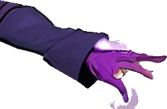
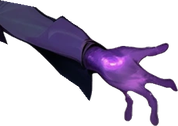
Combat body v3: young face matching the cards, flat boots instead of heeled ones, cleaner hands; re-split parts and anchors
Claude-Session: https://claude.ai/code/session_01XrBwXBqX3owjaJbW5W7iUD

diff --git a/MagicSwordsman/tools/split_body.py b/MagicSwordsman/tools/split_body.py
@@ -1,6 +1,6 @@
 """Splits the full-body Ensifer art into animation parts with Godot pivots.
 Input: the background-removed full-body PNG of the game-style Ensifer (side-on, facing right; 776x1216 — source:
-AI Horde side-view i2 (img2img of the previous body, head turned toward the enemy), see docs/card-art-credits.md). Output: MagicSwordsman/images/character/parts/*.png
+AI Horde side-view i2 of round 2 (2026-10-10: young face matching the cards, flat boots; img2img of the previous body), see docs/card-art-credits.md). Output: MagicSwordsman/images/character/parts/*.png
 and parts.json (pivot + offset per part, in output pixels). The base 'body' has the moving parts inpainted out so no
 hole shows when an arm or coat flap swings. The painted magic swirls of the source are removed (the rig draws its
 own palm circles). Usage: python3 tools/split_body.py body_cut.png
@@ -15,7 +15,7 @@ S=800/1216  # output scale (parts are 800 px tall; the scene shows them at 0.5)
 PARTS={  # name: (polygon in source px, pivot = joint the part rotates around)
  'head':([(268,22),(432,22),(432,118),(402,172),(372,192),(330,198),(296,150),(268,100)],(352,192)),
  'upper_r':([(398,212),(452,212),(502,326),(532,418),(502,462),(458,420),(418,322),(398,268)],(428,240)),
- 'fore_r':([(468,398),(560,416),(642,436),(732,466),(732,562),(640,562),(588,522),(518,482),(468,460)],(494,430)),
+ 'fore_r':([(468,398),(560,416),(642,436),(745,462),(748,605),(640,600),(588,530),(518,482),(468,460)],(494,430)),
  'upper_l':([(204,214),(262,228),(252,330),(202,440),(150,482),(118,450),(168,330)],(230,250)),
  'fore_l':([(108,430),(192,452),(170,562),(122,642),(104,702),(14,702),(6,612),(58,520)],(154,462)),
  'coat_l':([(130,600),(238,520),(290,700),(262,900),(180,940),(128,800)],(248,540)),
@@ -23,7 +23,7 @@ PARTS={  # name: (polygon in source px, pivot = joint the part rotates around)
 }
 ARMS=('upper_l','fore_l','upper_r','fore_r')
 DISCARD=()
-HANDS=[(4,596,134,712),(586,436,734,566)]  # glowing hands: keep their magenta glow
+HANDS=[(4,548,138,712),(584,448,748,604)]  # glowing hands: keep their magenta glow
 im=Image.open(SRC).convert('RGBA'); W,H=im.size
 a=np.array(im); yy,xx=np.mgrid[0:H,0:W]
 # painted magic swirls / wisps: magenta strokes outside the hands, and faint semi-transparent smoke
@@ -36,13 +36,14 @@ a[mag&~keep,3]=0
 a[a[...,3]<90,3]=0
 # the painted grey smoke around the hands and coat hem: light, unsaturated pixels (the figure itself is dark)
 rgb=a[...,:3].astype(int); light=(rgb.min(-1)>120)&((rgb.max(-1)-rgb.min(-1))<40)
-a[light,3]=0
-a[(yy>1120)&(xx>405),3]=0  # cast shadow beside the front boot
+a[light&~keep,3]=0  # (the face is pale: keep it and the hands)
+a[(yy>1068)&(xx>428),3]=0  # cast shadow beside the front boot
+a[(yy>1068)&(yy<1125)&(xx>405),3]=0
 grey=(rgb.min(-1)>55)&((rgb.max(-1)-rgb.min(-1))<32)
 for x0,y0,x1,y1 in ((560,420,776,680),(0,540,160,740),(420,740,700,880)):  # darker smoke near the hands and hem
-    z=np.zeros((H,W),bool); z[y0:y1,x0:x1]=True; a[z&grey,3]=0
+    z=np.zeros((H,W),bool); z[y0:y1,x0:x1]=True; a[z&grey&~keep,3]=0
 # ground shadow under the boots
-a[(yy>1100)&((xx<280)|(xx>440)),3]=0
+a[(yy>1068)&((xx<300)|(xx>428)),3]=0
 n,lab,st,_=cv2.connectedComponentsWithStats((a[...,3]>0).astype(np.uint8),8)
 a[lab!=1+np.argmax(st[1:,4])]=0
 im=Image.fromarray(a)

diff --git a/MagicSwordsman/tools/gen_combat_scene.py b/MagicSwordsman/tools/gen_combat_scene.py
@@ -16,7 +16,7 @@ HERE=os.path.dirname(__file__)
 OUT=os.path.join(HERE,'..','MagicSwordsman','scenes','magic_swordsman_combat.tscn')
 PARTS=json.load(open(os.path.join(HERE,'..','MagicSwordsman','images','character','parts','parts.json')))
 CW,CH=PARTS['_size']; CX,CY=CW/2,CH/2
-CHEST=(365*800/1216-CX,262*800/1216-CY)  # the glowing gem on his chest (split_body.py source px)
+CHEST=(362*800/1216-CX,255*800/1216-CY)  # the glowing gem on his chest (split_body.py source px)
 REST_Y=-200
 JOINTS={'head':'Visuals/Rig/Head','ul':'Visuals/Rig/UpperL','fl':'Visuals/Rig/UpperL/ForeL',
         'ur':'Visuals/Rig/UpperR','fr':'Visuals/Rig/UpperR/ForeR','cl':'Visuals/Rig/CoatL','cr':'Visuals/Rig/CoatR'}
@@ -275,7 +275,7 @@ P='res://MagicSwordsman/images/'
 ORDER=[('Body','body',None),('Head','head',None),('CoatL','coat_l',None),('CoatR','coat_r',None),
        ('UpperL','upper_l',None),('ForeL','fore_l','UpperL'),('UpperR','upper_r',None),('ForeR','fore_r','UpperR')]
 PARENT_PART={'ForeL':'upper_l','ForeR':'upper_r'}
-PALM={'L':('fore_l',(62*800/1216,662*800/1216)),'R':('fore_r',(684*800/1216,492*800/1216))}  # palms, output canvas px
+PALM={'L':('fore_l',(70*800/1216,640*800/1216)),'R':('fore_r',(655*800/1216,492*800/1216))}  # palms, output canvas px
 # layers of one hand circle: (name, texture, tilt rotation, tilt y-squash, spin turns per 6 s)
 LAYERS=[('Ring','h_ring',0.0,1.0,1),('Glyph','h_glyph',0.0,1.0,-1),('Core','h_core',0.0,1.0,0)]  # one slow turn per 12 s
 res='\n'.join(f'[ext_resource type="Texture2D" path="{P}character/parts/{f}.png" id="p_{f}"]' for _,f,_ in ORDER)

diff --git a/docs/card-art-credits.md b/docs/card-art-credits.md
@@ -406,3 +406,7 @@ The combat rig parts (`images/character/parts/*`) and `images/character/magic_sw
 ## Character select v3 (2026-10-10)
 
 `images/character/char_select_bg.jpg`: a distant hooded figure before a pillar of violet light in a ruined valley — AI Horde txt2img (AlbedoBase XL, 1024×576, RealESRGAN ×2 upscale; prompt in `tools/charselect_art/jobs_v3.json`, seed 3), then the ring of floating swords was composited from the mod's own sword sprites (`images/swords/`) with a drawn violet glow and ground ring.
+
+## Combat body v3 (2026-10-10)
+
+New side-view body (young face matching the card art, flat boots, cleaner hands): AI Horde img2img (AlbedoBase XL, denoise 0.6, seed 33) from the previous body, background removed with rembg, parts split by `tools/split_body.py`.
